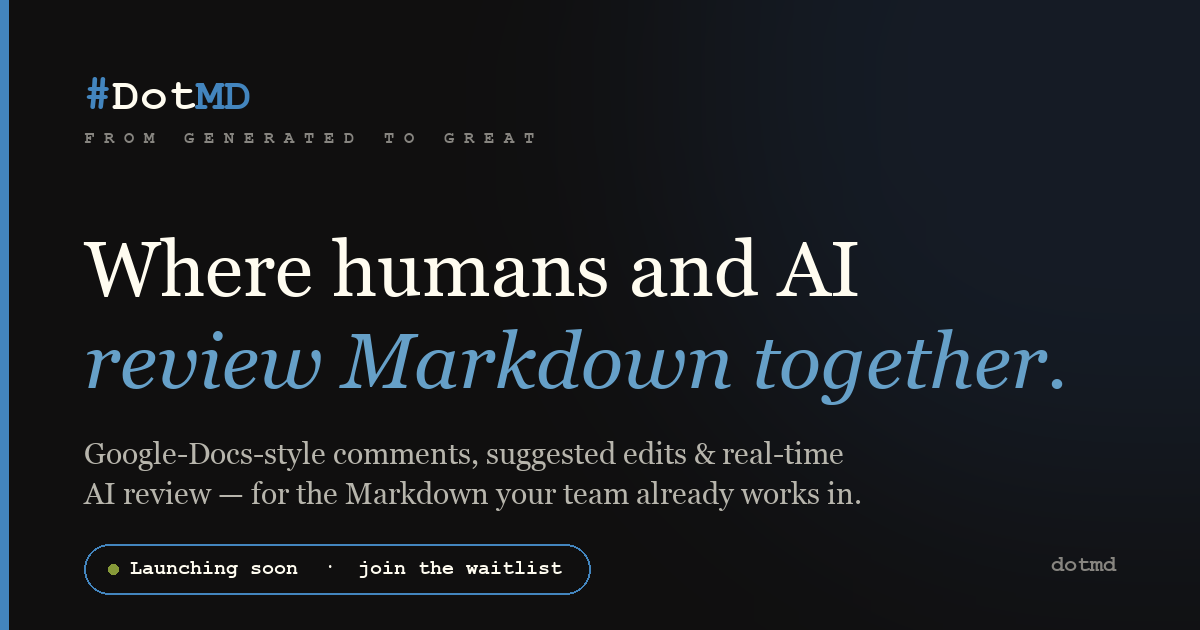
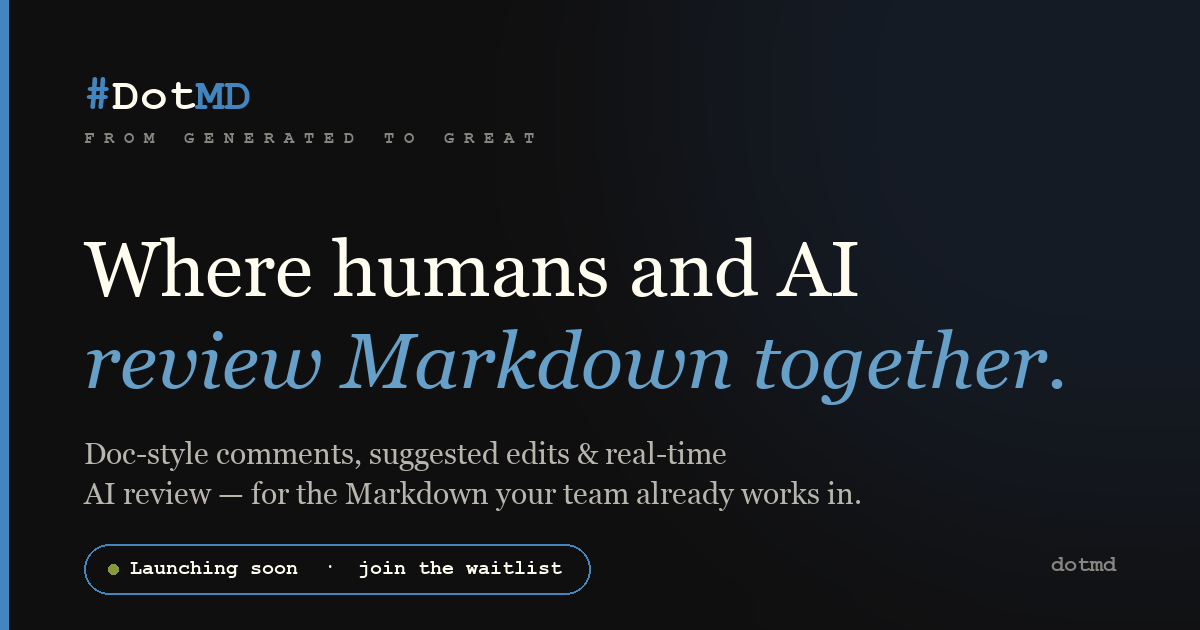
Remove "Google Docs" from all content — just say "doc"
- index.html: hero, features heading, and OG/Twitter/SEO meta now say
  "doc-style" / "Doc-grade" instead of "Google-Docs"
- Regenerate og-image.png, carousel slide 3, and the explainer video
  with the same wording change

(Google sign-in and the Google Fonts CDN are unrelated and kept.)

Changed region(s): [[0.0617, 0.6937, 0.7092, 0.754]]

diff --git a/index.html b/index.html
@@ -4,7 +4,7 @@
 <meta charset="UTF-8" />
 <meta name="viewport" content="width=device-width, initial-scale=1.0" />
 <title>DotMD — real-time Markdown collaboration & AI review</title>
-<meta name="description" content="DotMD brings Google-Docs-style comments, suggested edits, and real-time collaboration to Markdown — plus AI that reviews your docs and prepares your slides alongside you. Join the waitlist." />
+<meta name="description" content="DotMD brings doc-style comments, suggested edits, and real-time collaboration to Markdown — plus AI that reviews your docs and prepares your slides alongside you. Join the waitlist." />
 <link rel="canonical" href="https://sanjivasindhuja.github.io/dotmd-coming-soon/" />
 
 <!-- favicons -->
@@ -15,7 +15,7 @@
 <meta property="og:type" content="website" />
 <meta property="og:site_name" content="DotMD" />
 <meta property="og:title" content="DotMD — where humans and AI review Markdown together" />
-<meta property="og:description" content="Google-Docs-style comments, suggested edits & real-time AI review for the Markdown your team already works in. Join the waitlist." />
+<meta property="og:description" content="Doc-style comments, suggested edits & real-time AI review for the Markdown your team already works in. Join the waitlist." />
 <meta property="og:url" content="https://sanjivasindhuja.github.io/dotmd-coming-soon/" />
 <meta property="og:image" content="https://sanjivasindhuja.github.io/dotmd-coming-soon/og-image.png" />
 <meta property="og:image:width" content="1200" />
@@ -25,7 +25,7 @@
 <!-- Twitter -->
 <meta name="twitter:card" content="summary_large_image" />
 <meta name="twitter:title" content="DotMD — where humans and AI review Markdown together" />
-<meta name="twitter:description" content="Google-Docs-style comments, suggested edits & real-time AI review for Markdown. Join the waitlist." />
+<meta name="twitter:description" content="Doc-style comments, suggested edits & real-time AI review for Markdown. Join the waitlist." />
 <meta name="twitter:image" content="https://sanjivasindhuja.github.io/dotmd-coming-soon/og-image.png" />
 
 <link rel="preconnect" href="https://fonts.googleapis.com" />
@@ -407,7 +407,7 @@
   <div class="wrap">
     <div class="badge fu" style="animation-delay:.05s"><span class="dot"></span>Launching soon · join the waitlist</div>
     <h1 class="head fu" style="animation-delay:.12s">Where humans and AI<br><em>review Markdown together.</em></h1>
-    <p class="sub fu" style="animation-delay:.2s">Your AI tools write specs, docs, and READMEs in Markdown — then review falls apart. <b>DotMD brings Google-Docs-style comments, suggested edits, and real-time collaboration to the Markdown your team and your AI agents already work in</b> — without leaving git.</p>
+    <p class="sub fu" style="animation-delay:.2s">Your AI tools write specs, docs, and READMEs in Markdown — then review falls apart. <b>DotMD brings doc-style comments, suggested edits, and real-time collaboration to the Markdown your team and your AI agents already work in</b> — without leaving git.</p>
 
     <div class="hero-form fu" id="form-hero" style="animation-delay:.28s">
       <input type="text" placeholder="Your name" aria-label="name" autocomplete="name" />
@@ -427,7 +427,7 @@
 <section class="features" id="features">
   <div class="wrap">
     <div class="sec-label lg no-hash">What DotMD does</div>
-    <h2 class="sec-head solo">Google-Docs-grade review — <em>built for Markdown.</em></h2>
+    <h2 class="sec-head solo">Doc-grade review — <em>built for Markdown.</em></h2>
     <div class="feat-grid">
       <div class="feat"><span class="mark"><i data-lucide="file-text"></i></span><h3>Full-fidelity rendering</h3><p>GFM tables, code blocks, Mermaid diagrams, and math render exactly as written — no broken previews, no surprises.</p></div>
       <div class="feat"><span class="mark"><i data-lucide="message-square"></i></span><h3>Inline comments</h3><p>Comment on any selection — a word, a sentence, a whole section — in threaded discussions with <code>@mentions</code> and resolve.</p></div>